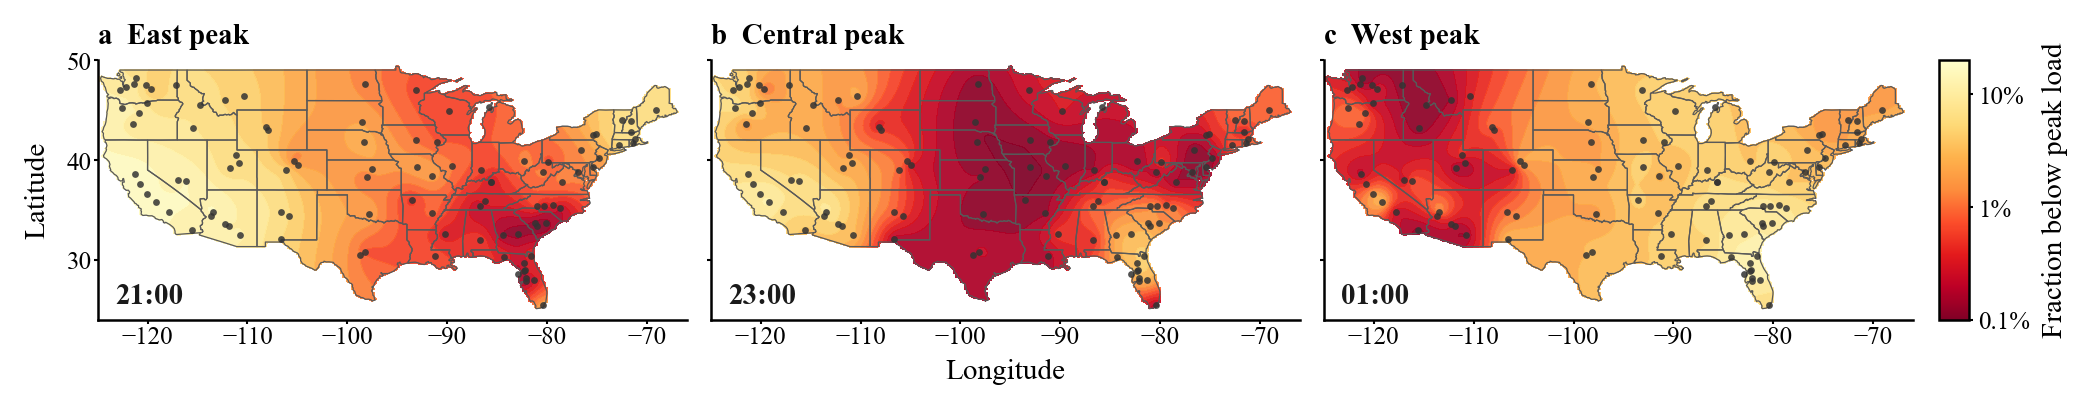
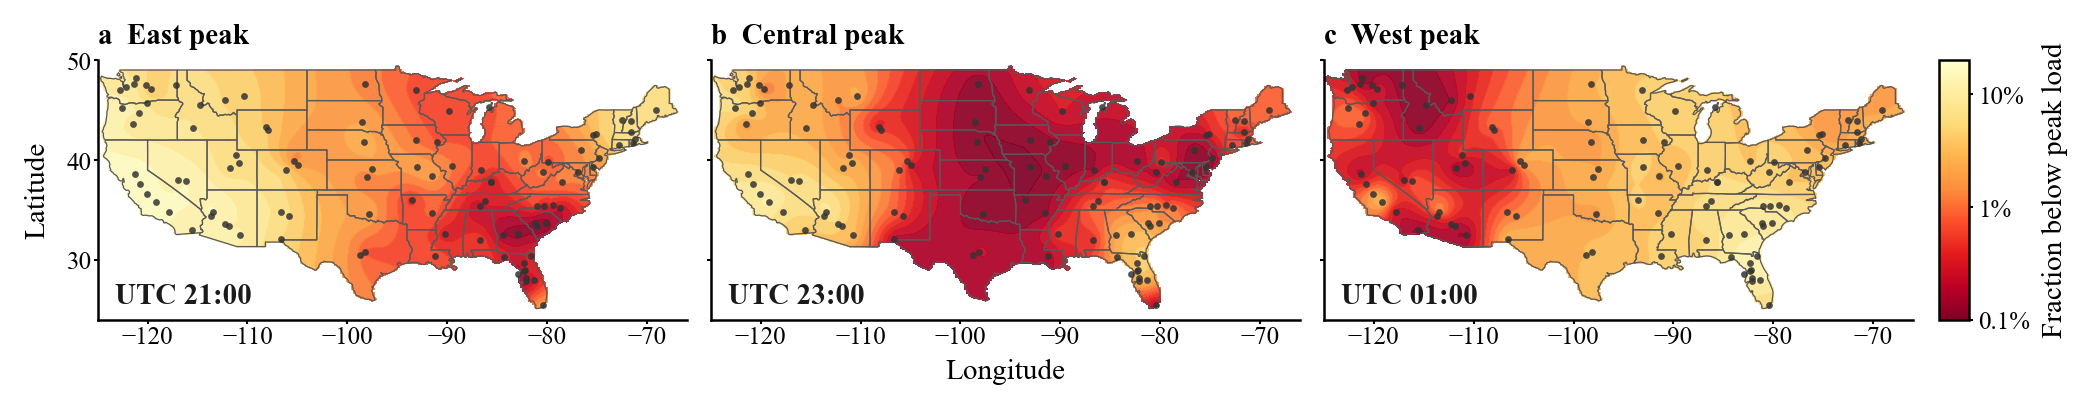
Label map hours as UTC HH:00.
Keep the UTC prefix with clock-style times on Fig. 1 and Ext. Data Fig. 6.

Changed region(s): [[0.3418, 0.6765, 0.435, 0.7647], [0.0311, 0.6765, 0.1243, 0.7647], [0.6214, 0.6765, 0.7146, 0.7647]]

diff --git a/experiments/E01/plot_demand_maps.py b/experiments/E01/plot_demand_maps.py
@@ -545,7 +545,7 @@ def build_propagation_board(season: str, case: str = "background") -> Path:
         ax.text(
             0.03,
             0.04,
-            f"{hour:02d}:00",
+            f"UTC {hour:02d}:00",
             transform=ax.transAxes,
             fontsize=MAP_FS_TAG,
             fontweight="bold",
@@ -740,7 +740,7 @@ def build_summary_board(season: str = "summer", only: str | None = None) -> Path
             ax.text(
                 0.03,
                 0.05,
-                f"{hour:02d}:00",
+                f"UTC {hour:02d}:00",
                 transform=ax.transAxes,
                 fontsize=MAP_FS_TICK,
                 fontweight="bold",
@@ -884,7 +884,7 @@ def build_contrast_board(season: str = "summer") -> Path:
             ax.text(
                 0.03,
                 0.05,
-                f"{hour:02d}:00",
+                f"UTC {hour:02d}:00",
                 transform=ax.transAxes,
                 fontsize=MAP_FS_TICK,
                 fontweight="bold",
